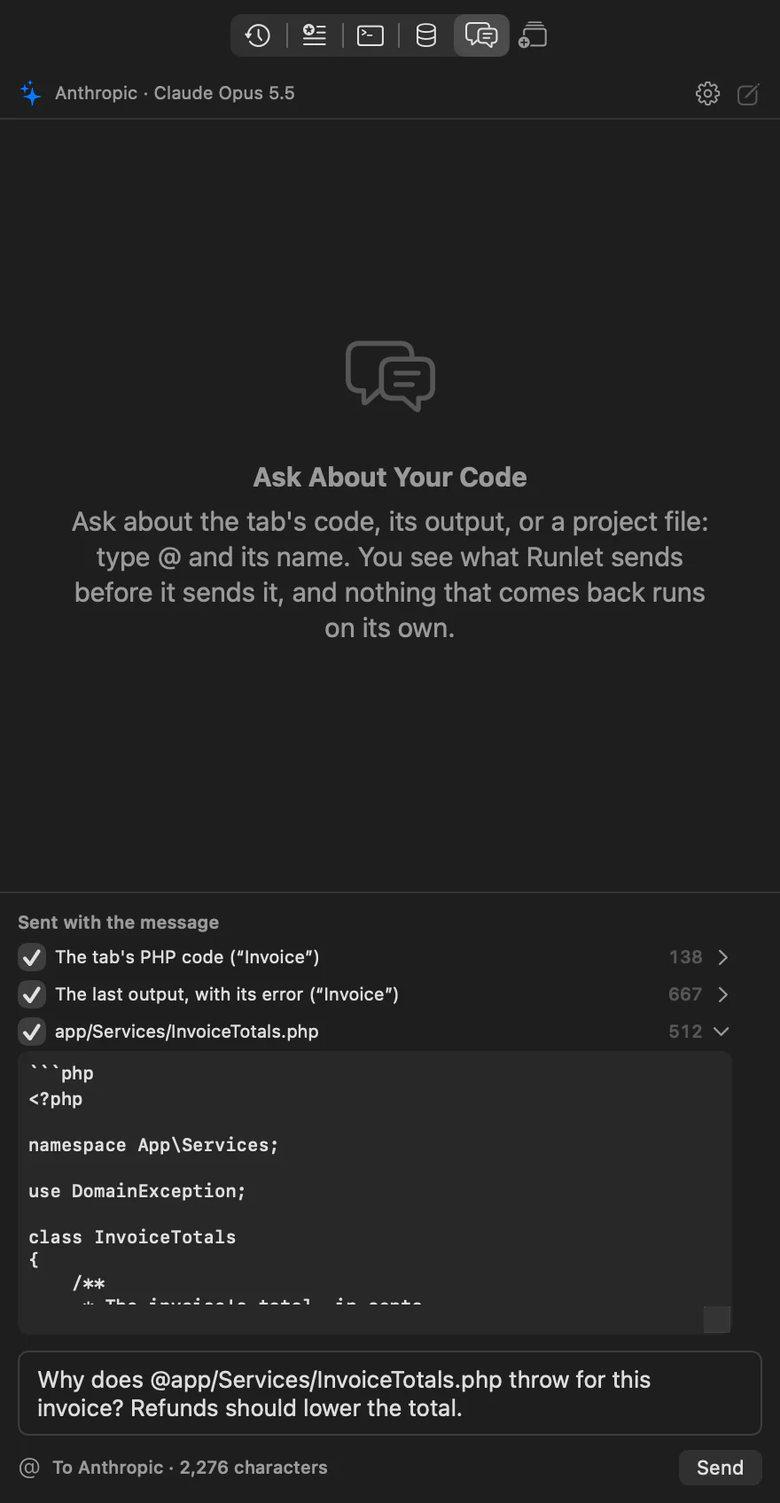
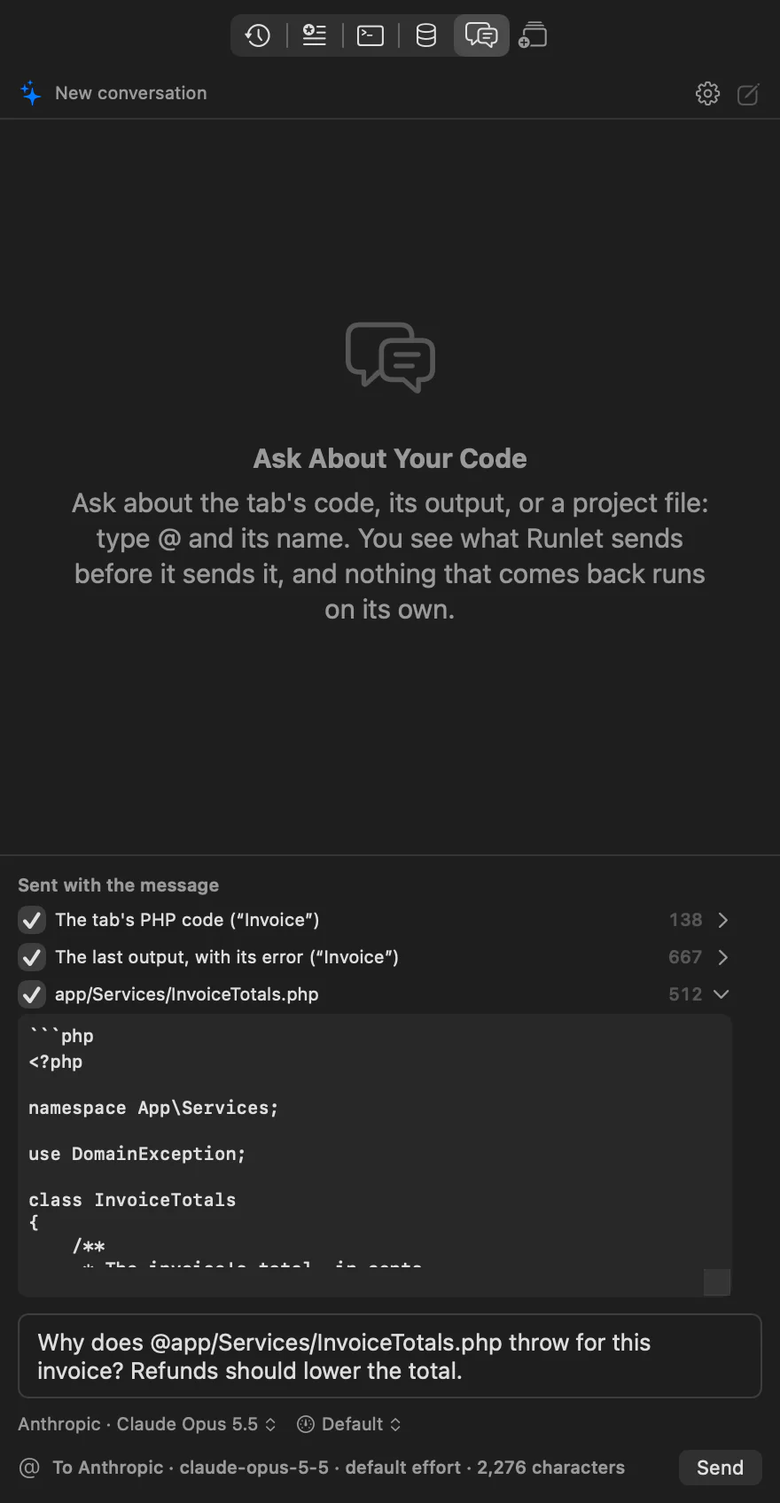
Docs: choosing the chat's provider, model, and reasoning, switching, long conversations, and Settings ▸ AI's reasoning level, with the screenshots retaken; changelog entry (#45)

diff --git a/Runlet/App/AIChatDebugSteps.swift b/Runlet/App/AIChatDebugSteps.swift
@@ -166,7 +166,7 @@ enum AIChatDebugSteps {
         line += " overflow=\(draft.overflow.map { "\($0.tokens)/\($0.limit)" } ?? "-") leftOut=\(session.conversation.turns.filter(\.attachmentsLeftOut).count)"
         line += " sends=\(draft.disclosure.provider.rawValue)/\(draft.disclosure.model)/\(draft.disclosure.effort?.rawValue ?? "default")"
         line += " turns=[\(turns.joined(separator: " "))] history=\(draft.disclosure.history.count)"
-        line += " parts=[\(parts)] unavailable=\(draft.unavailableFiles.map(\.path)) chars=\(draft.disclosure.characterCount) files=[\(files)]"
+        line += " parts=[\(parts)] notSent=\(draft.unavailableFiles.map(\.path)) chars=\(draft.disclosure.characterCount) files=[\(files)]"
         line += " index=\(session.fileIndex.count) suggestions=[\(suggestions)] problem=\(draft.problem ?? "-") canSend=\(draft.canSend) key=\(model.hasAIKey(draft.disclosure.provider))"
         if let tab = window.selectedTab {
             line += " tab=\(tab.title) code=\(tab.code.count)c autoRun=\(tab.autoRunEnabled) undo=\(tab.editorIfLoaded?.textView.undoManager?.undoActionName ?? "-")"

diff --git a/Runlet/Features/AISettingsView.swift b/Runlet/Features/AISettingsView.swift
@@ -34,7 +34,7 @@ struct AISettingsView: View {
             Section {
                 rule("hand.raised", "Nothing is sent on its own. Each feature first shows exactly what it would send, with the provider and the model, and sends only when you click Send.")
                 rule("key", "Keys stay in your Mac's Keychain, never in Runlet's files, and aren't shown again after you save them.")
-                rule("play.slash", "Runlet never runs code a model writes. A proposed fix changes your tab only when you apply it, and Undo puts the code back.")
+                rule("play.slash", "Runlet never runs code a model writes. A proposed fix or a chat answer's code changes your tab only when you apply or insert it, and Undo puts the code back.")
                 rule("creditcard", "Requests go straight from this Mac to the provider, with your key, and are billed to your account.")
             } header: {
                 Text("Privacy")

diff --git a/scripts/docs-screenshots.py b/scripts/docs-screenshots.py
@@ -869,7 +869,7 @@ AI_CHAT_SHOT = dict(tabs=[tab("Invoice", ai_stub.INVOICE, target=SHOP_PROJECT)],
 SHOTS += [
     Shot("ai", "settings", about="Settings ▸ AI: a saved Anthropic key, masked, after Test Key listed the models (the AI stand-in)",
          tabs=[tab("Scratch", "")], window="AI", settings_tab=5, background=ai_stand_in(AI_SETTINGS_PORT, {}), env=ai_env(AI_SETTINGS_PORT),
-         steps=[f"ai-key:anthropic={ai_stub.KEY}", "ai-test:anthropic", "ai-wait:tested", "settings", "wait", "frame:AI=640x880", "wait", "ai-state"]),
+         steps=[f"ai-key:anthropic={ai_stub.KEY}", "ai-test:anthropic", "ai-wait:tested", "settings", "wait", "frame:AI=640x1000", "wait", "ai-state"]),
     Shot("ai", "explain-disclosure", about="Explain or Fix before sending: the error, the tab's code, and the source where it was thrown",
          tabs=[tab("Invoice", ai_stub.INVOICE, target=SHOP_PROJECT)], frame="1200x900", seed=ai_seed, window="sheet",
          env=ai_env(AI_FIX_PORT), steps=AI_EXPLAIN + ["ai-state"]),

diff --git a/docs/ai.md b/docs/ai.md
@@ -19,8 +19,8 @@ To add a key:
 
 **Send to** at the top of the pane picks the provider that AI features use. You can save a key for each and switch between them.
 
-![Settings ▸ AI with a saved Anthropic key shown masked, a note that the key works, the model for each provider, and the privacy rules](screenshots/ai/settings-light.webp#gh-light-mode-only)
-![Settings ▸ AI with a saved Anthropic key shown masked, a note that the key works, the model for each provider, and the privacy rules](screenshots/ai/settings-dark.webp#gh-dark-mode-only)
+![Settings ▸ AI with a saved Anthropic key shown masked, a note that the key works, the model and reasoning level for each provider, and the privacy rules](screenshots/ai/settings-light.webp#gh-light-mode-only)
+![Settings ▸ AI with a saved Anthropic key shown masked, a note that the key works, the model and reasoning level for each provider, and the privacy rules](screenshots/ai/settings-dark.webp#gh-dark-mode-only)
 
 ### Where Keys Are Kept
 
@@ -36,6 +36,17 @@ After an update, macOS may ask once before Runlet can read a key it saved. Choos
 Each provider has a **Model** setting. Before you test the key, it offers the provider's current models; after **Test Key**, it lists the ones your account can use, newest first. When the model you chose isn't in that list, Settings warns you.
 
 Larger models explain more carefully and cost more. Smaller ones, such as Claude Haiku 5.5 or GPT-6 Luna, are cheaper and faster. Each provider's pricing page has the prices.
+
+### Choosing a Reasoning Level
+
+Current models think before they answer, and the **Reasoning** setting under each provider's model says how hard. **Default** sends no level, so the model uses its own default; the other choices are the levels that model takes:
+
+| Provider | Levels | Models without one |
+| --- | --- | --- |
+| **Anthropic** | Low, Medium, High, Extra High, and Max on the current models; Claude Opus 4.6 and Sonnet 4.6 have no Extra High, and Claude Opus 4.5 goes up to High | Claude Haiku 4.5, Sonnet 4.5, and older |
+| **OpenAI** | Low to Max on GPT-6 Astra and GPT-6.1 Sol; GPT-6 Luna and GPT-5.5 also take None | GPT-4.1, GPT-4o, and the chat models |
+
+Higher levels take longer and cost more, since the thinking is billed as output. When you switch to a model that doesn't take the level you chose, Runlet sends none. Explain or Fix uses this setting; the chat can choose its own.
 
 ## What Is Sent, and When
 
@@ -102,6 +113,29 @@ The answer appears as the model writes it. **Stop** (<kbd>⌘</kbd><kbd>.</kbd>)
 
 Each message continues the conversation: Runlet sends the earlier messages and their answers again, so the model knows what you're following up on. The pencil button at the top, **New Conversation**, starts over. A message that got no answer (it failed, or you stopped it before any text arrived) stays in the list, and isn't sent again.
 
+### Choosing the Provider, Model, and Reasoning
+
+Under the message field, the chat shows where your next message goes, such as **Anthropic · Claude Opus 5.5** and the reasoning level next to it. Click either to change it; **Library ▸ Chat ▸ Choose Chat Model…** and **Choose Chat Reasoning…** open them too, and **Chat With Anthropic** and **Chat With OpenAI** are in the command palette (<kbd>⇧</kbd><kbd>⌘</kbd><kbd>P</kbd>).
+
+- **Only providers with a key.** A provider without a key in [Settings ▸ AI](#providers-and-keys) is listed but can't be chosen, with how to add one, and the chat never sends to it. If you remove the key of the provider the chat uses, it goes on with the other one; with no key at all, it shows the notice below.
+- **The models** are the ones Settings ▸ AI lists for the provider: your account's own after **Test Key**. The reasoning levels are the ones the model takes, and **Default** sends none.
+- **The chat's own choice.** It starts from Settings ▸ AI's provider, model, and level, and what you choose here stays for the chat, also after you quit Runlet, without changing Settings ▸ AI.
+- **It applies to the next message.** Each answer says who wrote it, and how hard it thought: "Anthropic · Claude Opus 5.5 · effort high". The line below the field names the exact model and level the next message goes to: "To Anthropic · claude-opus-5-5 · effort high · 2,275 characters".
+
+### Switching Mid-Conversation
+
+You can switch to another provider or model at any point. The new one gets the whole conversation as text, with the code, output, and files that went with each earlier message, and goes on as if it had been there all along. What a model keeps for itself, such as its thinking, never goes to another one; the conversation doesn't need it.
+
+Before the first message after a switch, a note says that the whole conversation goes to the new model, and how long it is. The new model reads all of it again, so it's billed again: nothing carries over from the provider or model you switched from.
+
+### Long Conversations
+
+Each model reads only so much at once, its context window: about 1 million tokens for current Claude and GPT-6 models, less for older ones. When the conversation and your message are more than the chosen model reads, the chat says so before sending, and **Send** stays off. Runlet never cuts a conversation short on its own. Instead you can:
+
+- click **Leave Out Earlier Attachments**: later messages send your earlier questions and the answers, but not the code, output, and files that went with them, oldest first, until it fits. A note takes their place, so the model knows something was left out;
+- uncheck what goes with this message, or start a new conversation;
+- choose a model that reads more.
+
 ### What Goes With a Message
 
 Under **Sent with the message**, above the field, the chat lists everything it would send with your message. The arrow next to each part shows its exact text.
@@ -163,7 +197,7 @@ When [Explain or Fix](#explain-or-fix-an-error) has answered, **Continue in Chat
 
 ### Chat Without a Key
 
-Without a key for the chosen provider, the chat shows the same notice as the sheet, with **Open AI Settings…**, and **Send** stays off. When a message fails, the answer says why, with **Try Again**, which sends the same message and context again, and **Open AI Settings…** when the key or the model is the problem.
+Without a key for either provider, the chat shows the same notice as the sheet, with **Open AI Settings…**, and **Send** stays off. When a message fails, the answer says why, with **Try Again**, which sends the same message and context again, and **Open AI Settings…** when the key or the model is the problem.
 
 ## When Something Goes Wrong
 
@@ -210,7 +244,11 @@ AI providers are [#368](https://github.com/filipac/runlet/issues/368); Explain o
 - **Opening Settings** goes through `SettingsWindow.open(selecting:)`, which chooses the app menu's Settings… item as ⌘, does: `NSApp.sendAction(showSettingsWindow:)` opens nothing on current macOS, with or without a sheet in front. The palette's Settings…, the mail chip's and the editor's links, and ⌥⌘, use it too.
 - **The chat's place:** a pane of the trailing column (`AppModel.InspectorPane.chat`), not a column of its own. It shares the column's toggle, width, and resize handle, and keeps the window's layout to editor, output, and one side panel; the conversation lives on the window's model, so switching panes or tabs keeps it, and an answer goes on streaming meanwhile. A sheet would block the editor, and a popover closes on a click. Show/Hide Chat (`library.toggleChat`, ⇧⌘I) shows it, or hides the column when it shows the chat.
 - **Conversations are kept per window, in memory** (`WindowModel.chat`), like the terminals: never in `State/*.json`. They hold code, output, and project files, which Runlet otherwise keeps out of its files (history keeps code, never output). Tinkerwell's chat is per session too.
-- **Each message is a disclosure:** `AIChatPrompt.draft` builds the `AIDisclosure` from the earlier turns (`AIChatConversation.history`: answered turns only, as sent), the context parts, and the typed message last, as `## Message`. The pane shows that disclosure, and Send makes the `AIConsent` for it; Send Chat Message works only while the chat is open. Context parts are fenced, scrubbed (`AISecretRedaction`), and cut to 20,000 characters (`AITextLimit`); a request longer than 200,000 characters isn't sent. The answer streams into `AIChatLiveAnswer`, so only that turn redraws.
+- **Where messages go** (`AIChatDestination.resolve`): `AppSettings.aiChatProvider`, `aiChatModel(for:)`, and `aiChatEffort(for:)`, the chat's own choice, kept in `State/settings.json` (a choice of the chat, not of one conversation, since conversations aren't kept); nil follows Settings ▸ AI. A provider without a saved key is never resolved to, the draft refuses one (`AIChatPrompt.draft(configured:)`), `AppModel.streamAI` refuses one before reading the Keychain, and `AIClient` refuses a request without a key: tested in `AIChatTests` (`theChatGoesOnlyToAProviderWithAKey`, `aProviderWithoutAKeyIsNeverSentTo`). Losing a key falls back to the other provider without changing the saved choice, so adding the key back restores it.
+- **Reasoning levels** are `AIEffort` (`none`, `minimal`, `low`, `medium`, `high`, `xhigh`, `max`) and `AIEffortChoice` (`.modelDefault`, saved as `"default"`, or a level). `AIModelTraits.effortLevels` holds the levels each model takes, from the providers' model pages (October 2026); unknown models of a family get `low` to `high`. A level the model doesn't take is never sent (`AIEndpoint.body` checks again). Settings ▸ AI's level is `aiAnthropicEffort`/`aiOpenAIEffort`, used by Explain or Fix too.
+- **Switching** sends the history as plain user and assistant text (`AIChatConversation.history`): nothing provider-specific is ever kept (thinking deltas aren't stored), and OpenAI's `store: false` stays, so no request relies on server-side state. `AIChatDraft.switchedFrom` drives the note. Tests check the exact bodies for Anthropic → OpenAI, OpenAI → Anthropic, and a model switch (`aSwitchSendsTheWholeConversationAsPlainText`), and `AIStubTests` does it over HTTP.
+- **Context windows:** `AIModelTraits.contextTokens` and a cautious estimate of three characters a token (`estimatedTokens`), with room for the answer's 16,000 tokens. `AIChatDraft.overflow` says so; `AIChatConversation.leaveOutAttachments` marks the oldest turns' `attachmentsLeftOut` until `AIChatDraft.fits(with:)`, and `AIChatTurn.sentAgain` sends the message part and a note instead.
+- **Each message is a disclosure:** `AIChatPrompt.draft` builds the `AIDisclosure` from the earlier turns (`AIChatConversation.history`: answered turns only, as sent), the context parts, and the typed message last, as `## Message`. The pane shows that disclosure, and Send makes the `AIConsent` for it; Send Chat Message works only while the chat is open. Context parts are fenced, scrubbed (`AISecretRedaction`), and cut to 20,000 characters (`AITextLimit`). The answer streams into `AIChatLiveAnswer`, so only that turn redraws.
 - **`@` files** (`ProjectFiles.resolve`): `..` and absolute paths are refused, the path is resolved with `realpath(3)` and must stay inside the project's real folder (so links can't lead out), only regular files are read (a FIFO would block), names that usually hold secrets are refused (`ProjectFiles.isSecret`, checked on both the name used and the one a link leads to), and files over 1 MB or with a NUL byte or invalid UTF-8 aren't sent. The mention still being typed (the caret right after it) isn't read yet. Files are read off the main thread when mentioned, and the text read is what's sent.
 - **Tinkerwell's `appFiles()`** is a driver method that lists the application's PHP files (without `vendor`) for its chat's `@` picker. Runlet lists the project's local folder itself (`ProjectFiles.list`), so listing files never boots the application; a target without a local folder (the sandbox, or an SSH profile without one) has no `@` files.
 - **Insert into Tab** is `EditorController.insertGenerated`: one undo group ("Insert into Tab"), counted as loaded code, so auto-run turns off (`TabModel.setAutoRunEnabled(false)` too, as Apply Fix does). The menu command `library.chatInsert` takes the block whose button was clicked (`AIChatSession.insertRequest`) or the last code block.

diff --git a/docs/done-next-release-ideas.md b/docs/done-next-release-ideas.md
@@ -26,7 +26,7 @@ Reconciled 2026-10-02 under [#3](https://github.com/filipac/runlet/issues/3). Ev
 | N06 | Bounded JSON trees with exact numeric literals and Copy Pretty, searchable/wrapping long text, PNG/JPEG/SVG previews, and detected HTML using the restricted viewer ([#7](https://github.com/filipac/runlet/issues/7)) | `RunletCore/StringViewers.swift`, `Runlet/Features/StringViewers.swift`, `OutputPane.swift`; `StringViewersTests.swift`, native viewer tests in `RunletUITests.swift`; [guide](string-viewers.md) | Specialized viewers |
 | N07 | Source excerpts in error cards: about five highlighted lines around the failing line in the card (with *Thrown in* the file when the line link is the snippet's) and in each stack frame with source (the first project frame open at first); read on this Mac from the run's code, the project, or a Docker or SSH profile's local folder (marked **local copy**); *Source not available here* with the path for missing files; a click opens the tab's line, the external editor, or the read-only peek; streamed, bounded, off the main thread, once per run ([#8](https://github.com/filipac/runlet/issues/8)) | `RunletCore/SourceExcerpt.swift`, `FrameSource.swift` (`FrameSourceResolver`, `SourceExcerptStore`), `RunletLanguage/NavigationFile+FrameSource.swift`, `Runlet/Features/SourceExcerptViews.swift`, `OutputPane.swift`, `Runlet/App/SourceExcerptDebugSteps.swift`, `scripts/source-excerpt-screenshots.py`; `SourceExcerptTests.swift`, `SourceExcerptExecutionTests.swift`, `FramePeekTests.swift`; Debug app screenshots in [#229](https://github.com/filipac/runlet/pull/229); [guide](snippet-api.md#source-excerpts) | Source excerpts in error cards ([#8](https://github.com/filipac/runlet/issues/8)) |
 | N45 | Explain or Fix This Error with a bring-your-own key: an error-card action (and Run ▸ Explain or Fix Error… for the tab's last error) opens a sheet that shows exactly what it would send (the error, the tab's code, and the source where it was thrown, each with a checkbox; the source off by default), the provider, and the model, and sends only on Send; the answer streams, Stop ends it, and a proposed fix shows as a diff that only Apply Fix applies, as one undoable edit that runs nothing ([#44](https://github.com/filipac/runlet/issues/44)). Built on the Anthropic and OpenAI providers with keys in the Keychain and Settings ▸ AI ([#368](https://github.com/filipac/runlet/issues/368)). Apple's on-device models, the proposal's other option, aren't built. | `RunletCore/ExplainError.swift`, `AIClient.swift`, `AIPrivacy.swift`, `Runlet/App/AppModel+ExplainError.swift`, `AppModel+AI.swift`, `Runlet/Features/ExplainErrorSheet.swift`, `AISettingsView.swift`, `Runlet/App/AIDebugSteps.swift`, `scripts/ai-screenshots.py`; `ExplainErrorTests.swift`, `AIClientTests.swift`, `AIStubTests.swift` (against `Tests/Fixtures/ai-stub`); [guide](ai.md) | Explain or Fix This Error ([#44](https://github.com/filipac/runlet/issues/44)) |
-| N46 | The chat sidebar: a Chat pane of the panel next to the editor (Library ▸ Show/Hide Chat, ⇧⌘I), one conversation per window kept in memory only; each message lists exactly what goes with it (the tab's code or selection, the last output with its error, and `@` project files, each with a checkbox, plus the earlier turns and the instructions) and is sent only on Send (⌘↩); answers stream, Stop (⌘.) keeps what arrived, and code blocks have Copy and Insert into Tab (one undoable edit that runs nothing and turns sandbox auto-run off). `@` files stay inside the project folder (no `..`, absolute paths, or links out), skip secrets such as `.env`, and are capped at 1 MB and 20,000 characters, 5 per message; values shaped like secrets are hidden. Explain or Fix's answer can continue in the chat. Tinkerwell's `appFiles()` (a driver method in its public repo that lists the application's PHP files, `vendor` left out, for its chat's `@` picker) is matched by Runlet listing the project's local folder itself, which runs nothing; a target without a local folder has no `@` files ([#45](https://github.com/filipac/runlet/issues/45)). | `RunletCore/AIChat.swift`, `ProjectFiles.swift`, `Runlet/App/AppModel+AIChat.swift`, `Runlet/Features/AIChatPane.swift`, `Runlet/App/AIChatDebugSteps.swift`, `scripts/ai-screenshots.py` (`chat`); `AIChatTests.swift`, `ProjectFilesTests.swift`, `AIStubTests.swift`; [guide](ai.md#chatting-about-your-code) | The chat sidebar ([#45](https://github.com/filipac/runlet/issues/45)) |
+| N46 | The chat sidebar: a Chat pane of the panel next to the editor (Library ▸ Show/Hide Chat, ⇧⌘I), one conversation per window kept in memory only; each message lists exactly what goes with it (the tab's code or selection, the last output with its error, and `@` project files, each with a checkbox, plus the earlier turns and the instructions) and is sent only on Send (⌘↩); answers stream, Stop (⌘.) keeps what arrived, and code blocks have Copy and Insert into Tab (one undoable edit that runs nothing and turns sandbox auto-run off). `@` files stay inside the project folder (no `..`, absolute paths, or links out), skip secrets such as `.env`, and are capped at 1 MB and 20,000 characters, 5 per message; values shaped like secrets are hidden. Explain or Fix's answer can continue in the chat. The chat chooses its own provider (only one with a key), model, and reasoning level under the message field; a switch sends the whole conversation as plain text, and a conversation longer than the model's context window says so and offers to leave out earlier attachments. Settings ▸ AI has a reasoning level per provider. Tinkerwell's `appFiles()` (a driver method in its public repo that lists the application's PHP files, `vendor` left out, for its chat's `@` picker) is matched by Runlet listing the project's local folder itself, which runs nothing; a target without a local folder has no `@` files ([#45](https://github.com/filipac/runlet/issues/45)). | `RunletCore/AIChat.swift`, `ProjectFiles.swift`, `Runlet/App/AppModel+AIChat.swift`, `Runlet/Features/AIChatPane.swift`, `Runlet/App/AIChatDebugSteps.swift`, `scripts/ai-screenshots.py` (`chat`); `AIChatTests.swift`, `ProjectFilesTests.swift`, `AIStubTests.swift`; [guide](ai.md#chatting-about-your-code) | The chat sidebar ([#45](https://github.com/filipac/runlet/issues/45)) |
 | N08 | Finished output and status tooltip show available bootstrap/execute phases, host total/start time, peak memory, and query time; missing phases remain unavailable ([#9](https://github.com/filipac/runlet/issues/9)) | `RunletCore/RunProtocol.swift`, `RunletExecution/RunSession.swift`, `Runlet/App/TabModel.swift`, `Runlet/Features/OutputPane.swift`, `MainWindow.swift`; `RunTimingTests.swift`, `LocalRunTests.swift`, `PersistenceTests.swift`, `RunletUITests.testTimingBreakdownAndStatusDetails`; [guide](run-timings.md) | Run timing breakdown |
 | N11 | Magic comments: `//?`, `/*?*/`, `/*?->projection*/`, `/*?.*/`; values streamed while the code runs on every target; dim inline values with `×N`, a hover panel with the value tree and hits, highlighting, gutter markers, Run Selection mapping; refused placements reported without changing the run; settings to turn them off or show values when the run ends | `Resources/Runner/src/MagicComments.php`, `Runner.php` (`SnippetCompiler`), `RunletCore/InlineValues.swift`, `RunletExecution/RunSession.swift`, `Runlet/Editor/InlineValueOverlay.swift`, `MagicCommentTests.swift` (semantics fixtures run with and without the comments; streaming locally, in a container, and over SSH), `InlineValuesTests.swift`; Debug app screenshots in [#74](https://github.com/filipac/runlet/pull/74) | Magic comments ([#10](https://github.com/filipac/runlet/issues/10)) |
 | N29 | SQL tabs: a PHP/SQL tab language (New SQL Tab, Switch Tab Language, `.sql` files; kept in sessions, workspaces, and history; old files load as PHP), an SQL highlighter with no PHPantom, one statement per run (the selection or the statement at the caret; several refused), the application's own connection with a picker (the project driver's `sqlConnection()` first, then Laravel, Symfony Doctrine, WordPress `$wpdb`, or a detected Eloquent connection; otherwise a clear refusal, never credentials), result tables or affected rows with a row cap, no auto-run or MCP, and a production confirmation that always asks and warns on writes ([#35](https://github.com/filipac/runlet/issues/35)) | `RunletCore/SQLTabs.swift`, `Resources/Runner/src/SqlTab.php`, `Drivers.php` (`sqlConnection()`, `SqlConnections`), `Runlet/App/AppModel+SQL.swift`, `Runlet/Editor/SQLHighlighter.swift`, `Runlet/Features/SQLTabViews.swift`; `SQLTabTests.swift`, `SQLTabExecutionTests.swift`; Debug app screenshots in [#120](https://github.com/filipac/runlet/pull/120); [guide](sql-tabs.md) | SQL tabs ([#35](https://github.com/filipac/runlet/issues/35)) |

diff --git a/changelog.d/45.md b/changelog.d/45.md
@@ -1,0 +1,9 @@
+### Chat with an AI model about your code ([#45](https://github.com/filipac/runlet/issues/45))
+
+- **Library ▸ Show/Hide Chat** (⇧⌘I) opens a **Chat** pane next to the editor, beside History, Snippets, Commands, and Database. Ask about the tab's code, follow up on the answers, and stop an answer with **Stop** (⌘.). Each window has its own conversation, kept in memory while Runlet runs and never written to disk; **New Conversation** starts over.
+- **What goes with each message is listed above the field**, with checkboxes, and the arrow next to each shows its exact text: the tab's code (or just the selection), its last output with the error, and project files you mention with `@` (the field suggests them). The earlier messages and the instructions Runlet adds are listed too. Nothing is sent until you click **Send** or press ⌘↩.
+- **`@` files stay inside the tab's project folder:** no `..`, absolute paths, or links that lead out, never `.env` files, keys, or credentials, text files up to 1 MB, and five per message. Values that look like secrets (API keys, tokens, `APP_KEY`, passwords in URLs) are hidden from what's sent.
+- **Code blocks in answers have Insert into Tab and Copy.** Inserting puts the code at the cursor or over the selection as one undoable edit; it never runs, and sandbox auto-run turns off for the tab.
+- **Choose the provider, model, and reasoning level under the message field.** Only a provider with a key in Settings ▸ AI can be chosen, and the choice applies to the next message without changing Settings ▸ AI. Switching mid-conversation sends the whole conversation to the new model, which the chat says first, since it's billed again. A conversation longer than the model reads says so before sending, with **Leave Out Earlier Attachments**.
+- **Settings ▸ AI** has a **Reasoning** level per provider, used by Explain or Fix too: **Default** sends none, and only the levels the model takes are offered.
+- **Continue in Chat** in Explain or Fix carries its question and answer into the chat. Without a key, the chat offers **Open AI Settings…**.
